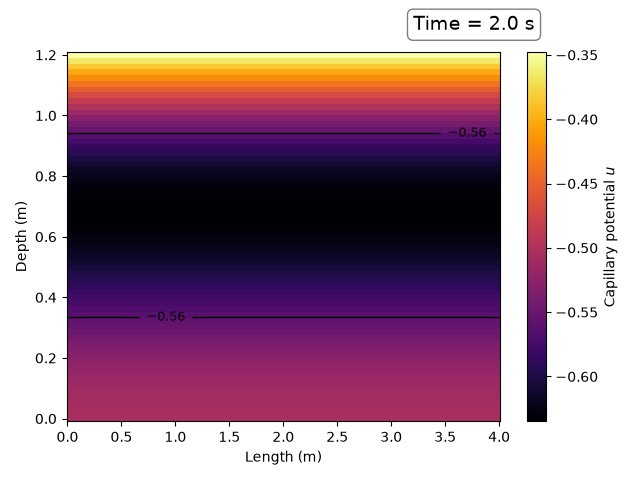
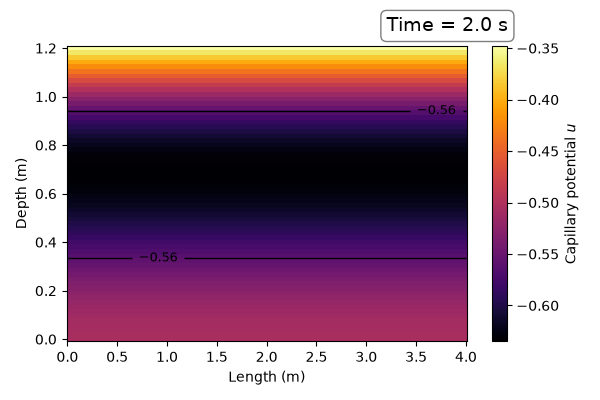
redo plots

Changed region(s): [[0.0, 0.0, 0.96, 0.99]]

diff --git a/scripts/create_plots.py b/scripts/create_plots.py
@@ -135,7 +135,7 @@ if args.potential:
 
     for i in range(0, int(args.nfig) + 1):
         Z = np.genfromtxt(f"../results/u_{i}.csv", delimiter=',')
-        fig, ax = plt.subplots(1,1)
+        fig, ax = plt.subplots(1,1, figsize=(6,4))
         cmap = plt.colormaps['inferno']
 
         #vmin=min_p, vmax=max_p, 
@@ -176,12 +176,14 @@ if args.flux:
     for i in range(0, int(args.nfig) + 1):
         Z = torch.tensor(np.genfromtxt(f"../results/u_{i}.csv", delimiter=','))
         grad_x, grad_y = calculate_grad(Z, dx, dy)
-        fig, ax = plt.subplots(1,1)
+        fig, ax = plt.subplots(1,1,  figsize=(6,4))
 
         q_x = - kappa_malago(Z[:-1, :-1]) * grad_x       # water flux in the x direction
         q_y = - kappa_malago(Z[:-1, :-1]) * (grad_y + 1) # water flux in the y direction. PLus one for gravity
         q = ax.quiver(X[::3, ::3], Y[::3, ::3], q_x[::3, ::3], q_y[::3, ::3])
         #plt.title("Infiltration flux")
+        ax.set_xlabel("Length (m)")
+        ax.set_ylabel("Depth (m)")
         plt.tight_layout()
         plt.savefig(f"../plots/u_quiver_{i}.png")
         plt.close()
